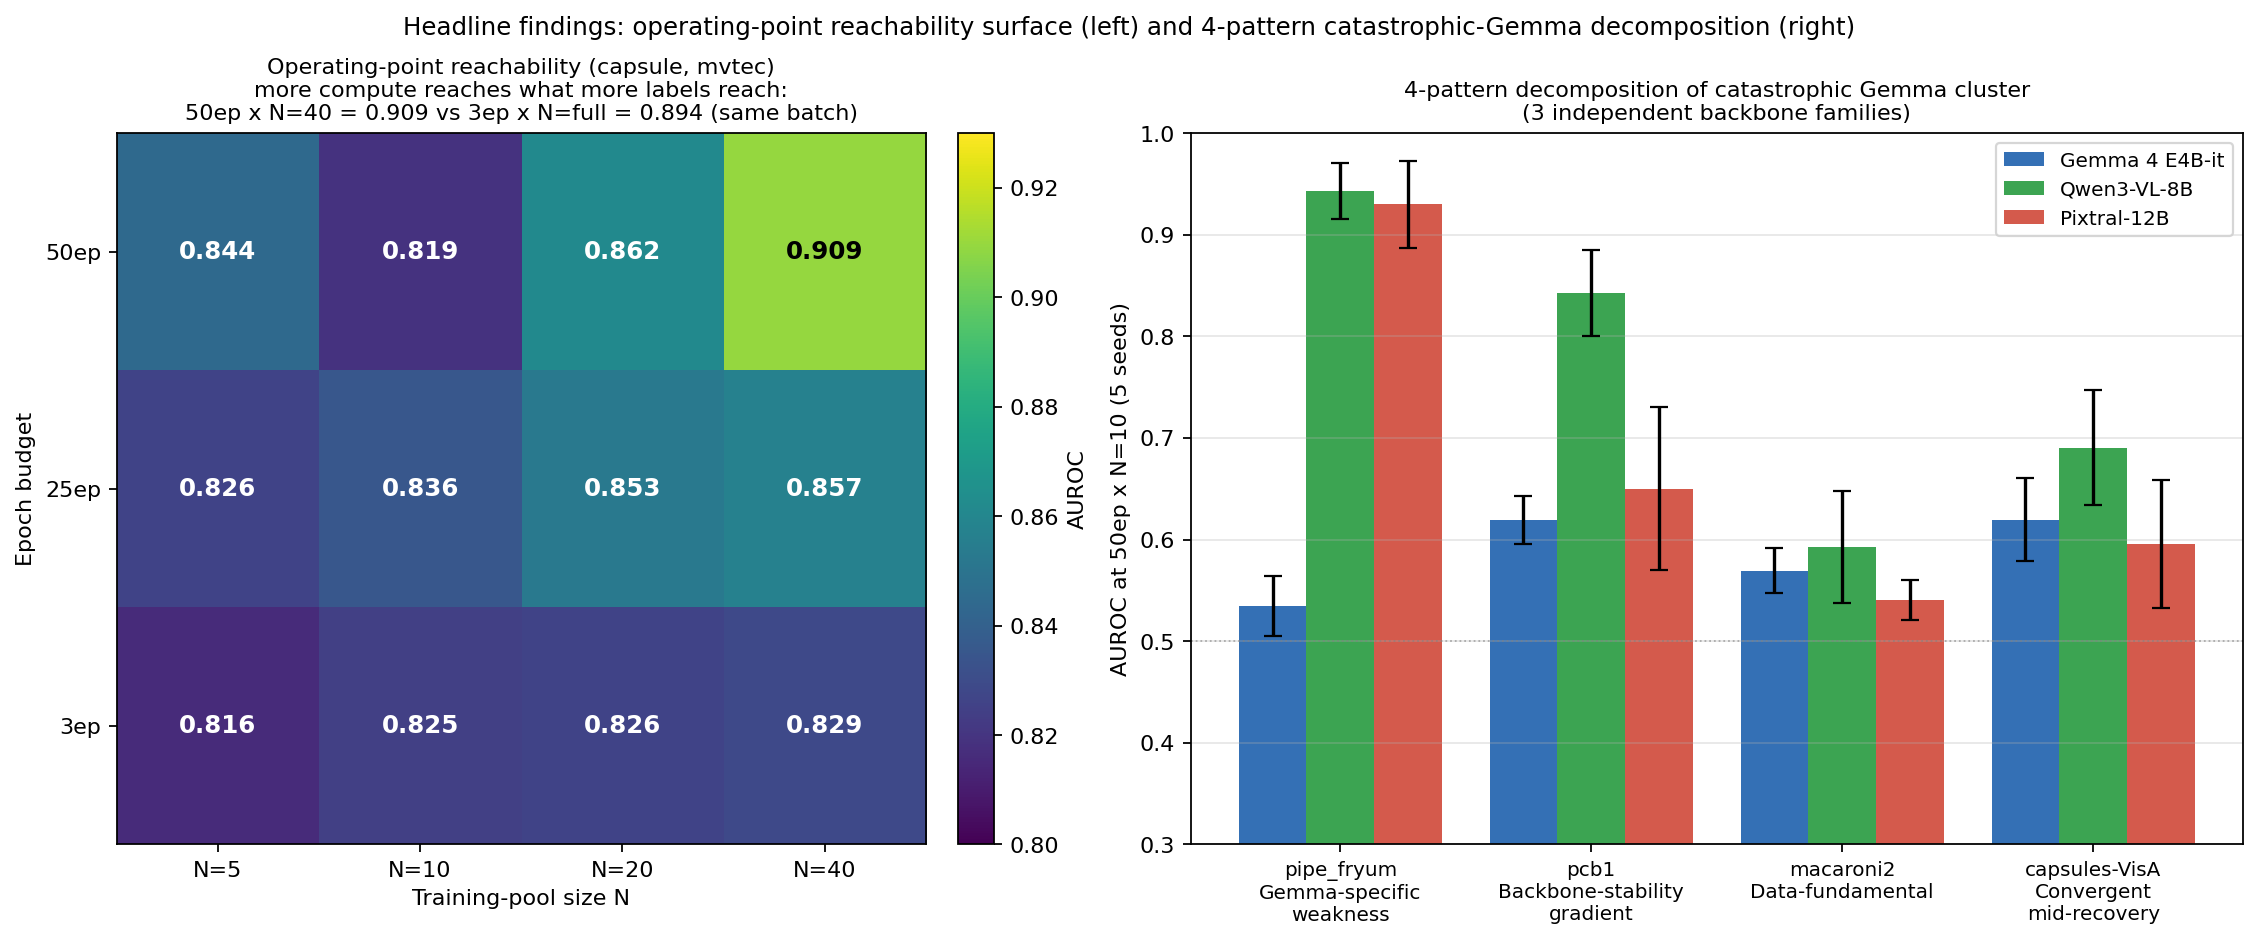
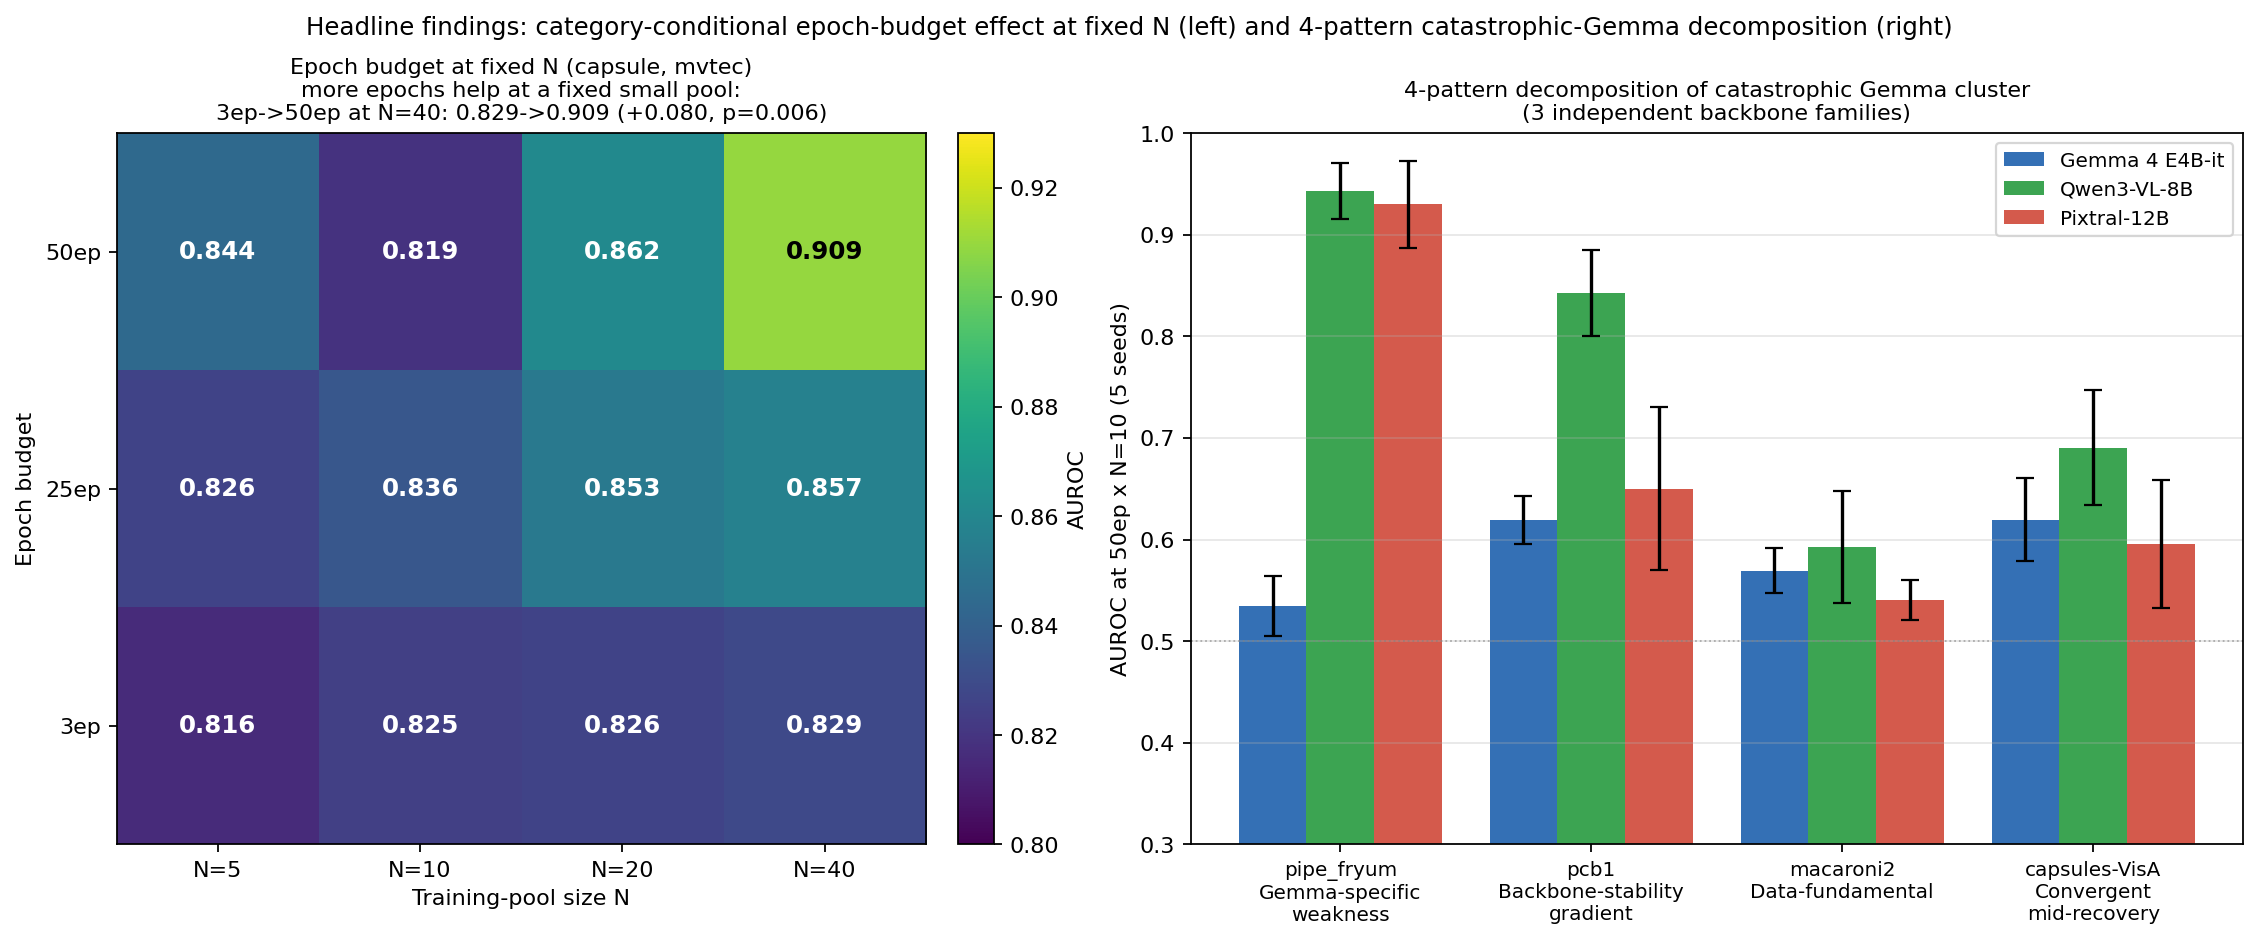
figures: reframe 2D surface + teaser to fixed-N epoch effect
Titles/labels reframed from operating-point reachability to the
category-conditional epoch-budget effect at fixed N (capsule +0.080 at
N=40, p=0.006); data source unchanged (v0.6-*-frozen).

Changed region(s): [[0.093, 0.0, 0.868, 0.1543]]

diff --git a/research/baselines/make_v15_figures.py b/research/baselines/make_v15_figures.py
@@ -648,7 +648,7 @@ def fig_2d_substitutability_4cat(rows):
     ns = [5, 10, 20, 40]
 
     fig, axes = plt.subplots(2, 2, figsize=(13, 10), constrained_layout=True)
-    fig.suptitle("Operating-point reachability surface (4 cats x 4 N x 3 epochs x 3 seeds, last-epoch, single frozen environment)",
+    fig.suptitle("Epoch budget at fixed N: a category-conditional effect (4 cats x 4 N x 3 epochs x 3 seeds, last-epoch, frozen environment)",
                  fontsize=12)
 
     for k, (cat, ds, label, vrange) in enumerate(cats):
@@ -777,7 +777,7 @@ def fig_v15_teaser(rows):
     ax1.set_yticklabels([f"{ep}ep" for ep in epochs], fontsize=10)
     ax1.set_xlabel("Training-pool size N", fontsize=10)
     ax1.set_ylabel("Epoch budget", fontsize=10)
-    ax1.set_title("Operating-point reachability (capsule, mvtec)\nmore compute reaches what more labels reach:\n50ep x N=40 = 0.909 vs 3ep x N=full = 0.894 (same batch)",
+    ax1.set_title("Epoch budget at fixed N (capsule, mvtec)\nmore epochs help at a fixed small pool:\n3ep->50ep at N=40: 0.829->0.909 (+0.080, p=0.006)",
                   fontsize=10)
     fig.colorbar(im, ax=ax1, fraction=0.046, pad=0.04, label="AUROC")
 
@@ -823,7 +823,7 @@ def fig_v15_teaser(rows):
     ax2.legend(loc='upper right', fontsize=9)
     ax2.grid(axis='y', alpha=0.3)
 
-    fig.suptitle("Headline findings: operating-point reachability surface (left) and"
+    fig.suptitle("Headline findings: category-conditional epoch-budget effect at fixed N (left) and"
                  " 4-pattern catastrophic-Gemma decomposition (right)",
                  fontsize=11, y=1.04)
     out = OUT / "fig_v15_teaser.png"
